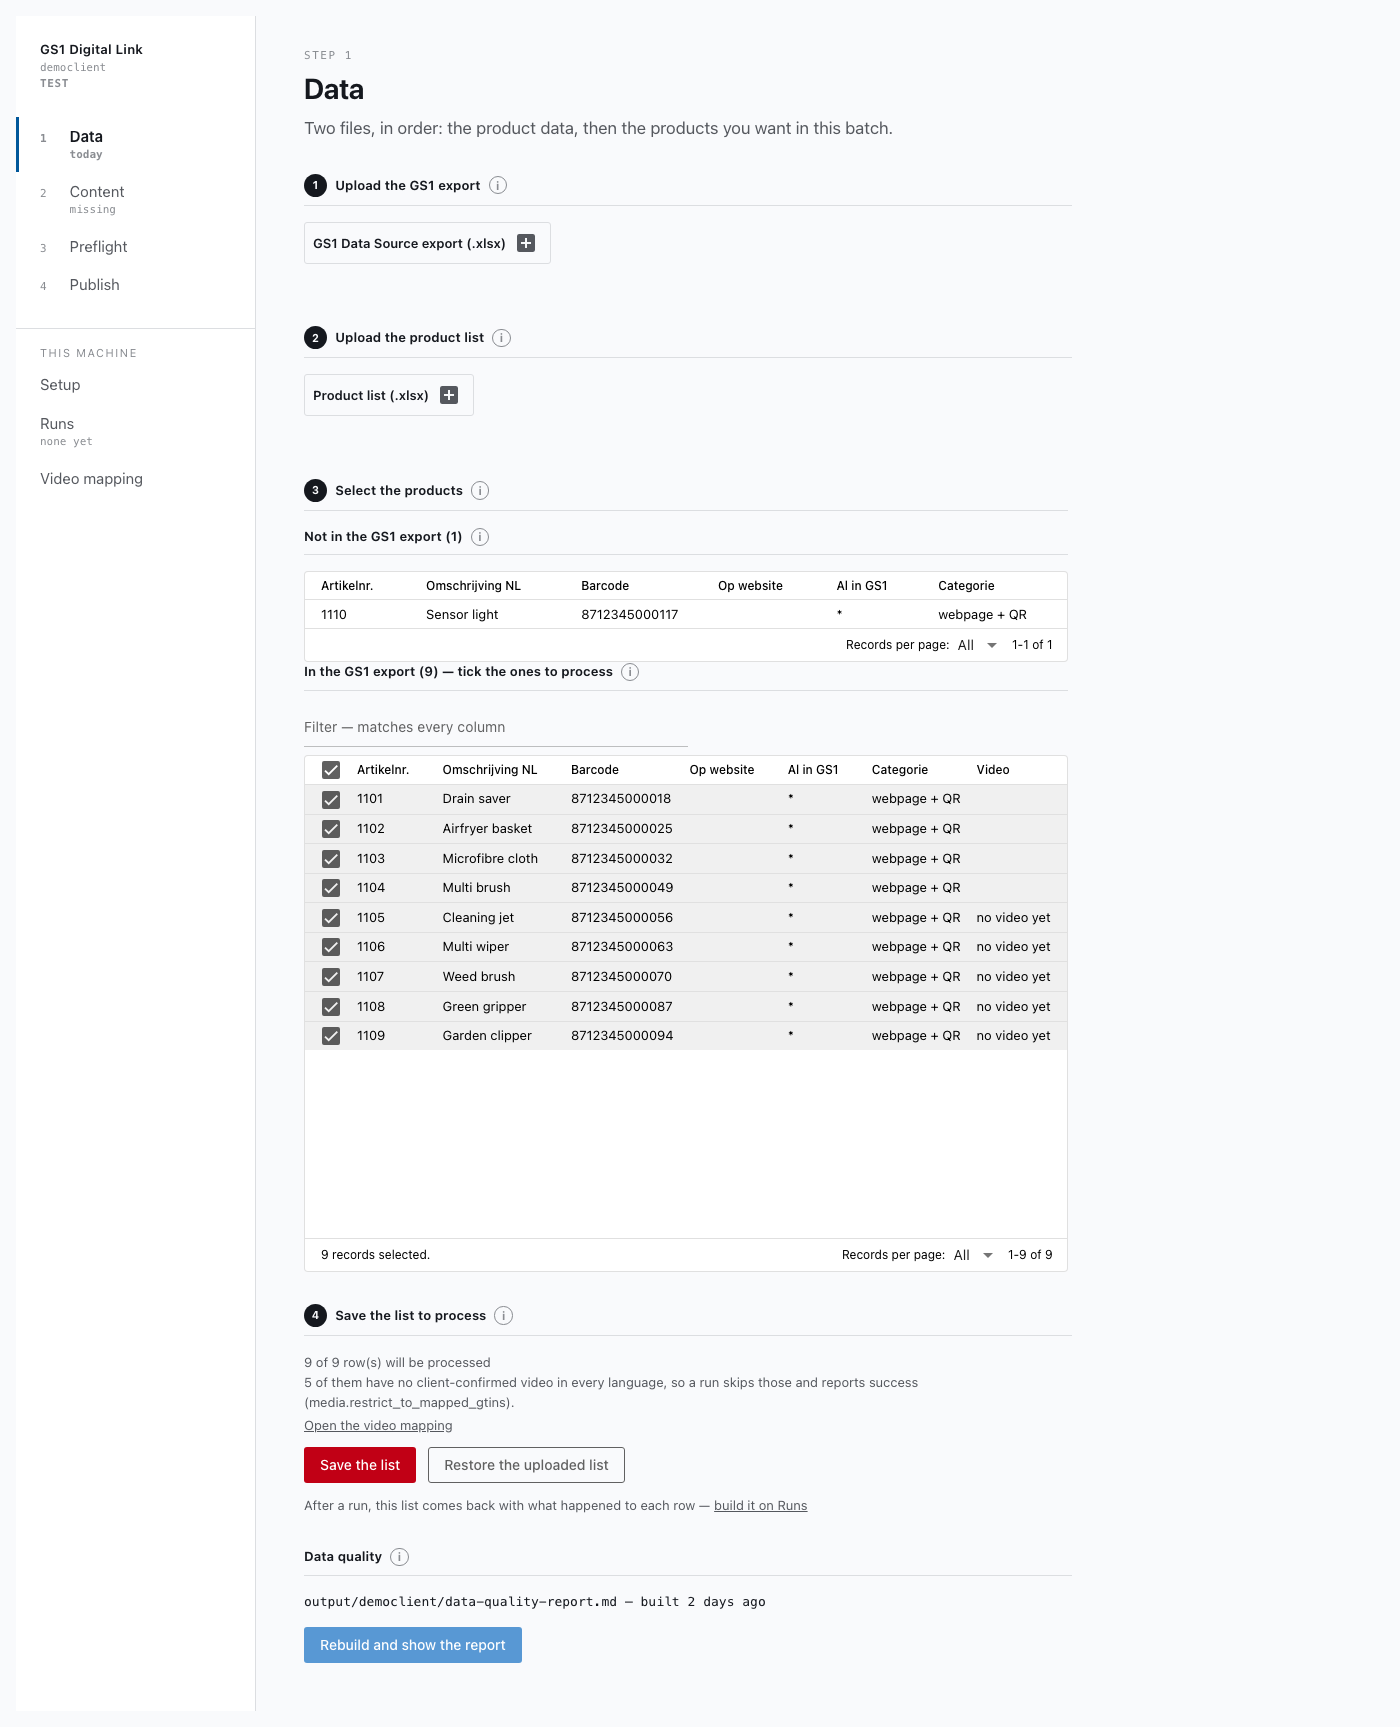
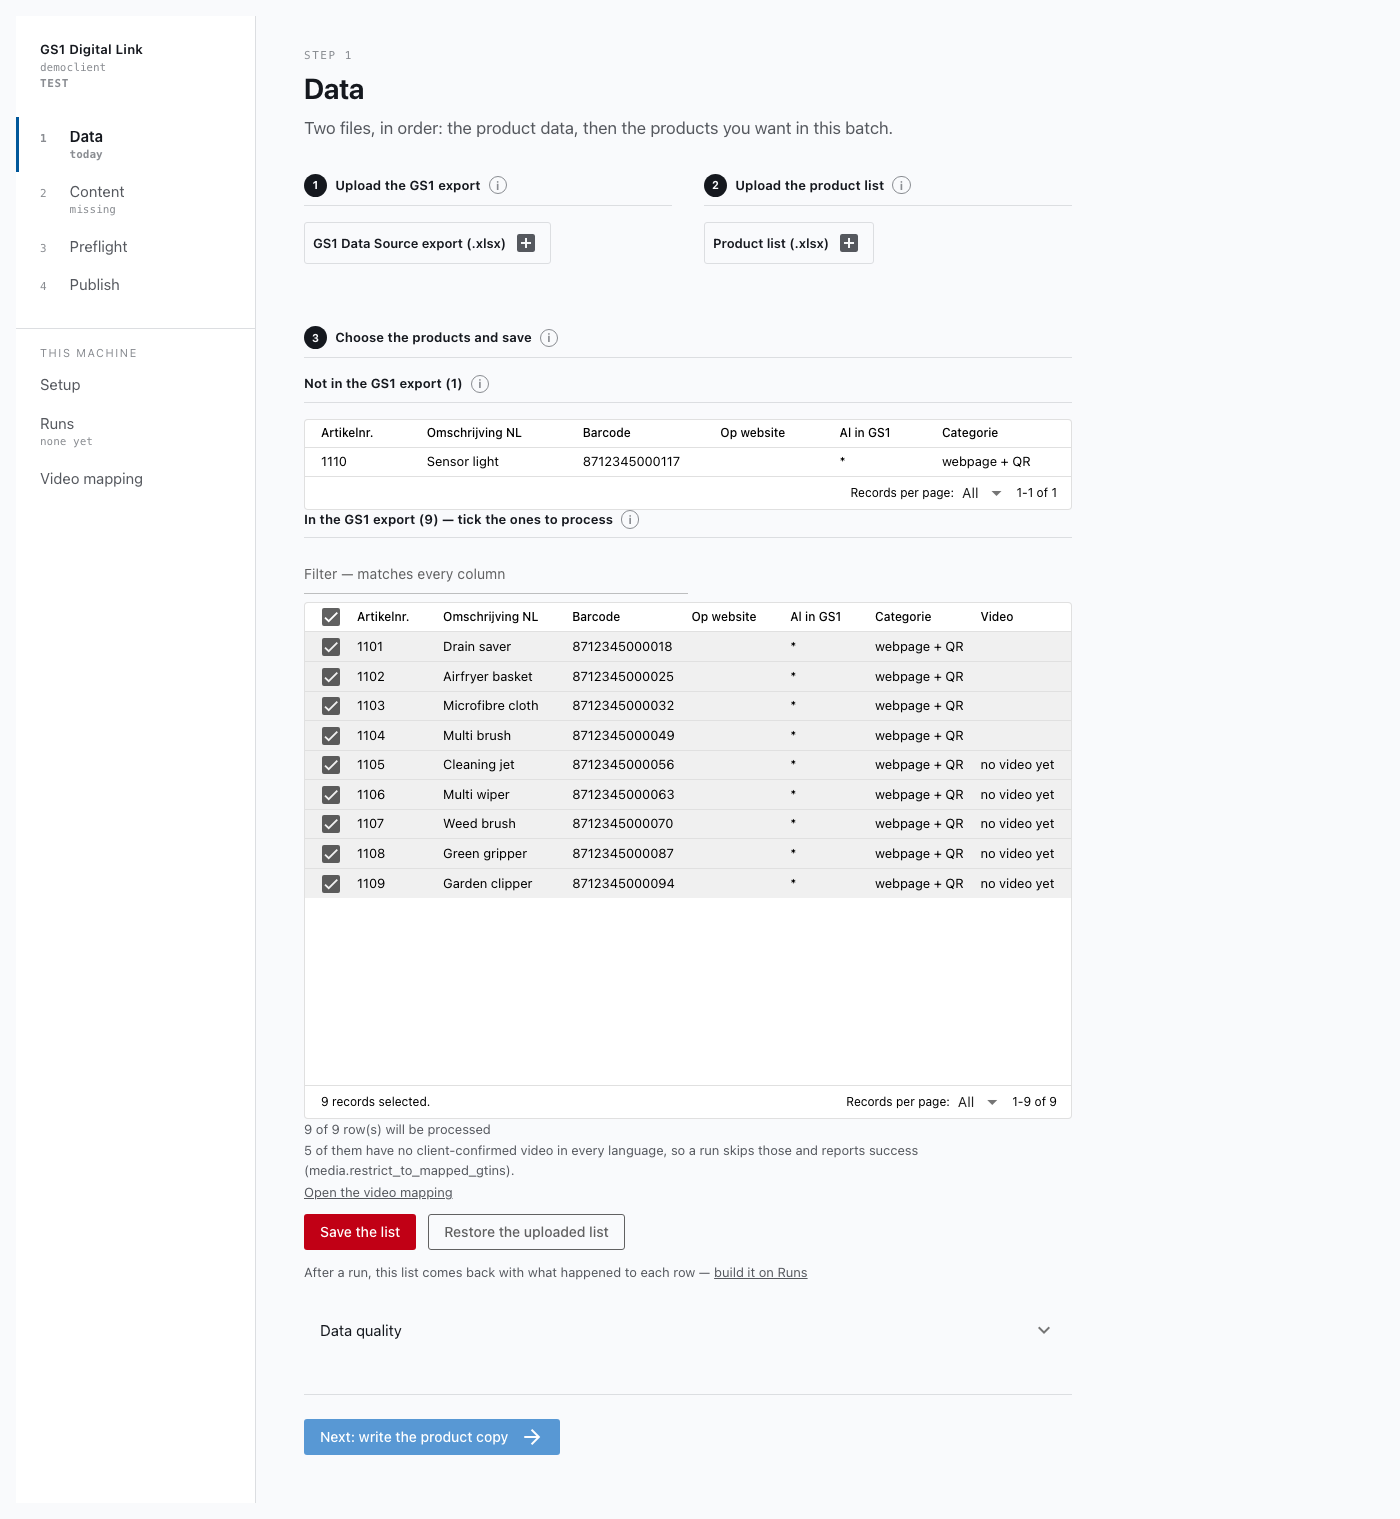
feat(data): two uploads side by side, no step 4, and a way onward
**Steps 1 and 2 sit side by side.** Bringing both files is one act and their order
does not matter, so stacking them made a two-part job look like a four-part one.
Below 60rem they stack, where a column would be narrower than a picker and its
label. Reading a new export now redraws the selection too — a new export moves the
join as surely as a new list does, and only the list used to.

**Step 4 is gone.** Saving is not a stage of its own; it is how you finish
choosing. Its explanation folded into step 3's, which is now *Choose the products
and save*.

**The data-quality report builds itself, and starts folded.** It was a button,
which made a fresh worklist something the operator had to think of asking for —
and therefore the thing most likely to be skipped on the visit where it mattered.
It rebuilds on every load now, from the files a run has just written, and the fold
means that costs nobody a glance.

It runs on a `ui.timer(once=True)` just after the first paint rather than during
the render. The command takes about half a second — measured, not guessed — and
half a second of blank screen is a poor trade on a screen nobody opened to read a
report. The date beside it comes from the file that was just written, so a command
that succeeded without writing anything new cannot leave last week's worklist
looking like this week's.

**`theme.onward`** — a Next button at the foot. The rail is navigation for somebody
[…]

diff --git a/ui/pages/data.py b/ui/pages/data.py
@@ -60,7 +60,7 @@ def render() -> None:
         theme.heading(
             theme.eyebrow("Data"),
             "Data",
-            "Two files, in order: the product data, then the products you want in this batch.",
+            "The two files a batch is made of, and which products you want in it.",
         )
         if cfg is None or cid is None:
             theme.blocked(
@@ -70,15 +70,29 @@ def render() -> None:
             )
             return
 
-        _export(cfg, cid)
-        _scope_list(cfg, cid)
+        # Steps 3 and 4 describe whatever the two files above currently are, so they are rebuilt
+        # whole whenever either changes — a new export moves the join as surely as a new list does.
+        def redraw() -> None:
+            body.clear()
+            with body:
+                _scope_grid(cfg, cid, redraw)
+
+        with ui.element("div").classes("steps-2up"):
+            _export(cfg, cid, redraw)
+            _scope_list(cfg, redraw)
+
+        # Bound after the row so it renders below it, and before `redraw` is ever called.
+        body = ui.column().classes("w-full gap-0")
+        redraw()
+
         _quality(cid)
+        theme.onward("Next: write the product copy", "/content")
 
 
 # --- Step 1: the export -------------------------------------------------------
 
 
-def _export(cfg: Any, cid: str) -> None:
+def _export(cfg: Any, cid: str, redraw: Callable[[], None]) -> None:
     target = _resolve(cfg.export.path)
 
     with theme.section(
@@ -112,6 +126,9 @@ def _export(cfg: Any, cid: str) -> None:
             # into a run built on a file nobody had opened.
             result = await runner.run_off_the_loop(runner.parse_export_argv(cid))
             if result.ok:
+                # The selection below is a join against this export, so it now describes a
+                # different one.
+                redraw()
                 theme.notify_ok("Export read.")
                 return f"{context.product_count(cid) or 0} products read from this export."
 
@@ -154,7 +171,7 @@ _HELD = "_held"
 _TABLE_HEIGHT = "55vh"
 
 
-def _scope_list(cfg: Any, cid: str) -> None:
+def _scope_list(cfg: Any, redraw: Callable[[], None]) -> None:
     if cfg.process_list is None:
         with theme.section("Choose the products for this batch", step=2):
             ui.label(
@@ -193,17 +210,6 @@ def _scope_list(cfg: Any, cid: str) -> None:
             return f"Installed. Your upload is kept as {kept.name}."
 
         theme.upload("Product list (.xlsx)", receive, busy="Checking the list…")
-
-    # Steps 3 and 4 describe whatever the file above currently is, so they are rebuilt whole
-    # whenever it changes.
-    body = ui.column().classes("w-full gap-0")
-
-    def redraw() -> None:
-        body.clear()
-        with body:
-            _scope_grid(cfg, cid, redraw)
-
-    redraw()
 
 
 def _scope_grid(cfg: Any, cid: str, redraw: Callable[[], None]) -> None:
@@ -250,27 +256,20 @@ def _scope_grid(cfg: Any, cid: str, redraw: Callable[[], None]) -> None:
         return {_ROW: index, **cells, _HELD: "no video yet" if gtin in held else ""}
 
     with theme.section(
-        "Select the products",
+        "Choose the products and save",
         step=3,
         explain=(
             "Every row arrives ticked, and a run processes the ticked ones. Untick a product to "
-            "leave it out of this batch. The filter changes only what you can see, never what is "
-            "ticked, so you can search, untick, clear the filter, and nothing you did is lost."
+            "leave it out of this batch, then save. The filter changes only what you can see, "
+            "never what is ticked, so you can search, untick, clear the filter, and nothing you "
+            "did is lost. Saving keeps the previous version beside the file, and Restore puts back "
+            "the list you uploaded — which is what makes unticking safe to get wrong. Nothing is "
+            "published here; this only settles which products are in the batch."
         ),
     ):
         _missing_table(columns, [row_of(n) for n in unmatched])
         below, search = _scope_table(columns, [row_of(n) for n in matched])
 
-    with theme.section(
-        "Save the list to process",
-        step=4,
-        explain=(
-            "Writes your choice to the file a run reads. The previous version is kept beside it, "
-            "and Restore puts back the list you uploaded — which is what makes unticking safe to "
-            "get wrong. Nothing is published here; this only settles which products are in the "
-            "batch."
-        ),
-    ):
         # Written out here and not only in the handler, because the handler is async — it may have
         # to ask the browser what the filter is showing — and the first value has to be on the page
         # before there is a browser to ask.
@@ -448,37 +447,47 @@ def _scope_table(
 
 
 def _quality(cid: str) -> None:
+    """The worklist, built every visit and folded away until it is wanted.
+
+    It used to be a button. That made a fresh report something the operator had to think of asking
+    for, and the thing they were most likely to skip on the visit where it mattered — so it now
+    rebuilds on every load, from the files a run has just written.
+
+    **Collapsed, and built after the page paints.** The command takes about half a second, which is
+    half a second of blank screen if it runs during the render, on a screen nobody opened to read a
+    report. `ui.timer(once=True)` puts it just after the first paint instead, so the cost lands
+    somewhere nobody is waiting.
+    """
+    report = REPO_ROOT / "output" / cid / "data-quality-report.md"
+
     with theme.section(
         "Data quality",
+        collapsed=True,
         explain=(
             "What is blank or wrong in the export itself. Those values get fixed in MyGS1, at the "
-            "source — never invented here — so this report is the work list to send upstream."
+            "source — never invented here — so this report is the work list to send upstream. It "
+            "is rebuilt every time this screen opens."
         ),
     ):
-        report = REPO_ROOT / "output" / cid / "data-quality-report.md"
-        fact = context.file_fact(report)
-        # Which run's worklist this is. `show()` rebuilds the file and renders it, so a command
-        # that succeeded without writing anything new leaves last week's report on screen looking
-        # exactly like this week's.
-        ui.label(
-            f"{report.relative_to(REPO_ROOT)} — built {fact.age}"
-            if fact.exists
-            else "No report built yet."
-        ).classes("mono mt-2")
-
+        stamp = ui.label("Building…").classes("mono")
         body = ui.column().classes("w-full mt-4")
 
-        # Async, and the subprocess runs off the event loop. Both halves are needed, for the
-        # reason `runner.run_off_the_loop` gives: a blocking call in a sync handler holds the
-        # loop until the command has already finished, so the running-state the button paints
-        # arrives at the browser only once there is nothing left to report.
-        async def show() -> None:
+        # Async, and the subprocess runs off the event loop, for the reason
+        # `runner.run_off_the_loop` gives: a blocking call holds the loop until the command has
+        # already finished, so anything queued before it reaches the browser too late to matter.
+        async def build() -> None:
             result = await runner.run_off_the_loop(runner.report_quality_argv(cid))
             body.clear()
             with body:
                 if not result.ok or not report.is_file():
+                    stamp.text = "The report could not be built."
                     theme.band(result.stderr or "The report could not be built.", "warn")
                     return
+                # Dated from the file that was just written, so a command that succeeded without
+                # writing anything new cannot leave last week's worklist looking like this week's.
+                stamp.text = (
+                    f"{report.relative_to(REPO_ROOT)} — built {context.file_fact(report).age}"
+                )
                 ui.markdown(report.read_text(encoding="utf-8")).classes("prose max-w-none")
 
-        theme.action("Rebuild and show the report", show)
+        ui.timer(0.1, build, once=True)

diff --git a/ui/theme.py b/ui/theme.py
@@ -181,6 +181,18 @@ body { background: var(--paper) !important; color: var(--ink) !important;
    line below it. */
 /* NiceGUI puts the class on the uploader's own root, so this is `.q-uploader` itself — a
    descendant selector matches nothing, which is how it first shipped as a full-width white slab. */
+/* Two steps that are one act — bring both files — read as one act when they sit together. They
+   stack below 60rem, where two columns would each be too narrow for a picker and its label. */
+.steps-2up        { display: grid; grid-template-columns: 1fr 1fr; gap: var(--space-8);
+                    align-items: start; }
+.steps-2up > .section { margin-top: var(--space-8); }
+@media (max-width: 60rem) { .steps-2up { grid-template-columns: 1fr; gap: 0; } }
+
+/* The way on. The rail is navigation for somebody who knows the shape of the tool; this is for
+   somebody following a procedure, who wants to be told where the next thing is. */
+.onward           { margin-top: var(--space-12); padding-top: var(--space-6);
+                    border-top: 1px solid var(--rule); }
+
 .upload           { display: inline-flex; width: auto; min-width: 0; max-height: none;
                     border: 1px solid var(--rule); border-radius: 3px; background: none;
                     box-shadow: none; }
@@ -488,6 +500,10 @@ def section(
         if anchor:
             expansion.props(f"id={anchor}")
         with expansion:
+            # The fold is already the affordance here, so the explanation goes inside it rather
+            # than behind a second one.
+            if explain:
+                ui.label(explain).classes("explain")
             yield
         return
     element = ui.element("section").classes("section")
@@ -567,6 +583,18 @@ def _reveals(dot: ui.element, text: str) -> None:
         dot.props(f"aria-expanded={'true' if shown else 'false'}")
 
     dot.on("click", toggle)
+
+
+def onward(label: str, route: str) -> None:
+    """The way to the next screen, at the foot of a screen that is a step in a procedure.
+
+    The rail is navigation for somebody who already knows the shape of the tool. This is for
+    somebody following the procedure for the first time, who has finished a screen and wants to be
+    told where the next thing is rather than to go looking for it.
+    """
+    with ui.element("div").classes("onward"):
+        button = ui.button(label, on_click=lambda: ui.navigate.to(route))
+        button.props("no-caps unelevated color=primary icon-right=arrow_forward")
 
 
 def jumps(targets: list[tuple[str, str]]) -> None:

diff --git a/docs/operator-guide.md b/docs/operator-guide.md
@@ -66,14 +66,13 @@ and whoever helps you knows exactly what happened.
 
 <img src="images/data.png" alt="The Data screen: the GS1 Data Source export with a count, a modified date and an upload area, then the product scope list with its own upload, the barcodes missing from the export above, and the rest as a searchable table of tick boxes." width="900">
 
-**What this screen is for:** the two spreadsheets a batch is made of, in four numbered steps. Do
-1, then 2, then 3, then 4.
+**What this screen is for:** the two spreadsheets a batch is made of, and choosing what goes in it.
 
 Every heading has a small **ⓘ** beside it. Hover it to read what that file is and where it goes;
 press it to keep the text on screen. Nothing you need to act on is hidden behind one — a warning
 always sits on the page in a coloured band.
 
-**What you do, in order:**
+**What you do:**
 
 1. **Upload the GS1 export** — the product *data*. Press the picker and choose the spreadsheet.
    It is read as soon as it arrives: a spinner runs while that happens, then a line says how many
@@ -83,10 +82,14 @@ always sits on the page in a coloured band.
 2. **Upload the product list** — which barcodes this batch may touch. Same again: it is read
    before it replaces anything, so a file that will not open is refused and the list you were
    using stays put.
-3. **Select the products.** Two tables. The top one, *Not in the GS1 export*, lists barcodes you
-   asked for that the export has no row for — nothing else in the tool will mention them again.
-   It has no tick boxes on purpose: there is nothing to choose, because nothing can process them.
-   They stay in your list; to drop one, remove it in the spreadsheet and upload again.
+
+   Steps 1 and 2 sit side by side because they are one act: bring both files. Do them in either
+   order.
+3. **Choose the products and save.** Two tables. The top one, *Not in the GS1 export*, lists
+   barcodes you asked for that the export has no row for — nothing else in the tool will mention
+   them again. It has no tick boxes on purpose: there is nothing to choose, because nothing can
+   process them. They stay in your list; to drop one, remove it in the spreadsheet and upload
+   again.
 
    The bottom table is the batch. Every row arrives ticked.
 
@@ -94,17 +97,19 @@ always sits on the page in a coloured band.
    > this app, the button under the table said *Remove selected rows* and meant the opposite — it
    > is gone.
 
-   Use the filter box to find a product. Filtering changes only what you can see, never what is
-   ticked.
-4. **Save the list to process.** The line above the button says how many rows will be processed
-   out of how many could be. Press **Save the list**. Got it wrong? **Restore the uploaded list**
-   puts back the file you uploaded, in one click.
+   Use the filter box to find a product; filtering changes only what you can see, never what is
+   ticked. The line above the buttons says how many rows will be processed out of how many could
+   be. Then press **Save the list**. Got it wrong? **Restore the uploaded list** puts back the file
+   you uploaded, in one click.
 
-**Data quality** at the bottom builds a report of what is missing or wrong in the spreadsheet
-itself. Blank values get fixed in MyGS1, not here. The date beside it says when it was last built.
+**Data quality** at the bottom is folded away. It rebuilds every time you open this screen, so
+opening the fold always shows a current report — what is missing or wrong in the spreadsheet
+itself. Those values get fixed in MyGS1, not here.
 
-**Done looks like:** four steps worked through, nothing unexpected in the *Not in the GS1 export*
-table, and a line under step 4 naming exactly the number of products you mean.
+When you are done, **Next: write the product copy** at the foot of the screen takes you to step 2.
+
+**Done looks like:** both files uploaded without a refusal, nothing unexpected in the *Not in the
+GS1 export* table, and a line above the Save button naming exactly the number of products you mean.
 
 **Stop if:** either upload is refused, or a red band says a file cannot be read. Upload it again,
 or ask the maintainer for a fresh copy — do not go looking for the file in a folder to replace by

diff --git a/docs/ui-operator-shell.md b/docs/ui-operator-shell.md
@@ -125,9 +125,22 @@ both directions, and the button added next month is the case it would miss.
 
 ### Data
 
-**The screen is a procedure, so it is numbered.** Four filled numerals — upload the export, upload
-the list, select the products, save the list — with the explanation of what a file *is* behind an
-**ⓘ** on the heading rather than in a paragraph under it. `theme.section(step=…, explain=…)` and `theme.subhead` own that shape, so a screen
+**The screen is a procedure, so it is numbered.** Three filled numerals — the two uploads **side by
+side**, because bringing both files is one act and their order does not matter, then choosing and
+saving below them. The explanation of what a file *is* sits behind an **ⓘ** on the heading rather
+than in a paragraph under it. Below 60rem the two stack, where a column would be narrower than a
+picker and its label.
+
+**The data-quality report builds itself, folded.** It was a button, which made a fresh worklist
+something the operator had to think of asking for — and therefore the thing most likely to be
+skipped on the visit where it mattered. It now rebuilds on every load, from the files a run has
+just written, and stays collapsed. The command takes about half a second, so it runs on a
+`ui.timer(once=True)` just after the first paint rather than during the render: half a second of
+blank screen is a poor trade on a screen nobody opened to read a report.
+
+**A `Next` button at the foot.** The rail is navigation for somebody who knows the shape of the
+tool; `theme.onward` is for somebody following the procedure for the first time, who has finished a
+screen and wants to be told where the next thing is. `theme.section(step=…, explain=…)` and `theme.subhead` own that shape, so a screen
 cannot invent a second one.
 
 `theme.explanation` is both a tooltip and a toggle: hover answers it for an operator already

diff --git a/CHANGELOG.md b/CHANGELOG.md
@@ -33,10 +33,15 @@ and this project adheres to [Semantic Versioning](https://semver.org/spec/v2.0.0
   carries the old wording, Save reports the delta ("Saved 36 row(s). 2 dropped") rather than the end
   state, Save stays red, and Restore makes the worst case one click.
 
-  **The screen is a procedure, so it reads as one:** four numbered steps — upload the export,
-  upload the list, select the products, save the list — with the paragraph explaining each file
-  moved behind an ⓘ on its heading, and a compact picker with a spinner in place of Quasar's blue
-  slab reporting "0.0B / 0.00%".
+  **The screen is a procedure, so it reads as one:** three numbered steps — the two uploads side by
+  side, because bringing both files is one act and their order does not matter, then choosing and
+  saving below them. The paragraph explaining each file moved behind an ⓘ on its heading, and a
+  compact picker with a spinner replaced Quasar's blue slab reporting "0.0B / 0.00%". A `Next`
+  button at the foot leads on to Content.
+
+  **The data-quality report builds itself, folded away.** It was a button, which made a fresh
+  worklist something the operator had to think of asking for — and so the thing most likely to be
+  skipped on the visit where it mattered.
 
   **Uploading is the check.** There were two buttons, *check the parse* and *parse and save*, and
   the second was the one that mattered — so the first was a step an operator could skip into a run
